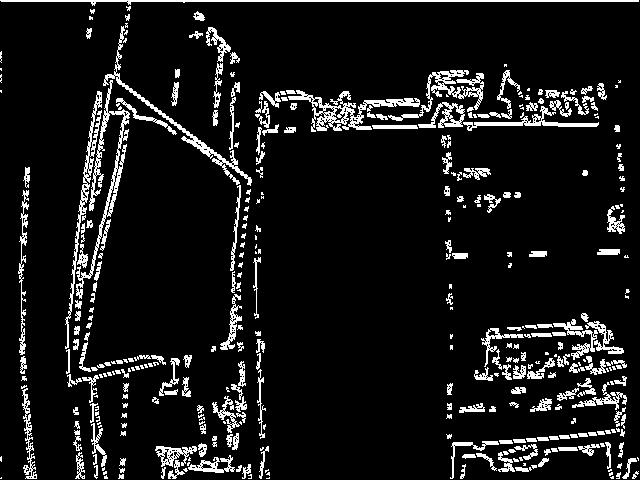
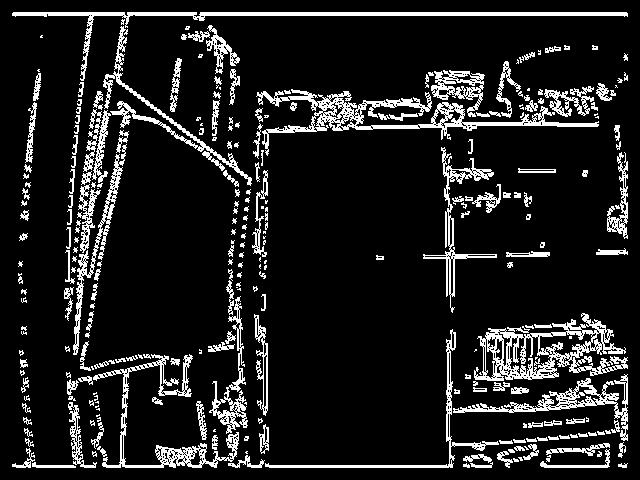
grayscale and binarization

diff --git a/main.py b/main.py
@@ -1,53 +1,17 @@
 import cv2
 import imutils as imutils
 import numpy as np
-from math import sqrt
 from numpy import uint8
 from skimage import img_as_ubyte
 from skimage.io import imread, imsave
 from skimage.color import rgb2gray
 from skimage.filters import threshold_sauvola
 from skimage.transform import probabilistic_hough_line
-from skimage import feature
-import time
 from skimage.draw import line
 from skimage.util import compare_images
-
+import suauvol
 from canny_detector import detect_edges
 from morphology import dilate, erode
-
-
-def integral_image(image, height, width):
-    I = np.zeros((height, width))
-    II = np.zeros((height, width))
-    for h in range(0, height):
-        sum = 0
-        sumSqr = 0
-        for w in range(0, width):
-            sum += image[h][w]
-            sumSqr += image[h][w] * image[h][w]
-            if h == 0:
-                I[h][w] = sum
-                II[h][w] = sumSqr
-            else:
-                I[h][w] = I[h - 1][w] + sum
-                II[h][w] = II[h - 1][w] + sumSqr
-    return I, II
-
-
-def sauvola(image, I, II, height, width, k, r, R):
-    bw = np.zeros((height, width))
-    s = (2 * r + 1) * (2 * r + 1)
-    for h in range(0, height):
-        for w in range(0, width):
-            if r + 1 <= h < height - r - 1 and r + 1 <= w < width - r - 1:
-                sum = I[h + r][w + r] + I[h - r - 1][w - r - 1] - I[h - r - 1][w + r] - \
-                      I[h + r][w - r - 1]
-                sumSqr = II[h + r][w + r] + II[h - r - 1][w - r - 1] - II[h - r - 1][w + r] - \
-                         II[h + r][w - r - 1]
-                avg = sum / s
-                bw[h][w] = 0 if image[h][w] < avg * (1 + k * (sqrt(sumSqr / s - avg * avg) / R - 1)) else 255
-    return bw
 
 
 def binarization(img):
@@ -107,13 +71,22 @@ width = left.shape[1]
 # at least 5% of the image needs to be covered
 thresh = height * width * 0.05 * 0.05
 
-left_bin = binarization(left)
-right_bin = binarization(right)
+# convert image to grayscale
+left_gray = suauvol.rgb_to_gray(left)
+right_gray = suauvol.rgb_to_gray(right)
 
+# binarization
+left_bin = suauvol.binarization(left_gray, 0.2, 13, 128)
+right_bin = suauvol.binarization(right_gray, 0.2, 13, 128)
+imsave("out/left_bin.jpg", left_bin)
+imsave("out/right_bin.jpg", right_bin)
+
+# edge detection
 left_edges = edge_detection(left_bin)
 right_edges = edge_detection(right_bin)
 imsave("out/left_edges.jpg", left_edges)
 imsave("out/right_edges.jpg", right_edges)
+
 left_dilate = dilate(left_edges)
 right_dilate = dilate(right_edges)
 imsave("out/left_dilate.jpg", left_dilate)
@@ -127,7 +100,7 @@ right_lines = line_detection(right_erode)
 imsave("out/left_lines.jpg", left_lines)
 imsave("out/right_lines.jpg", right_lines)
 # diff = compare_images(left_edges, right_edges, method='diff')
-diff = compare_images(left_lines, right_lines, method='diff')
+diff = np.abs(left_lines - right_lines)
 
 rectangles = cv2.findContours(img_as_ubyte(diff), cv2.RETR_LIST, cv2.CHAIN_APPROX_SIMPLE)
 rectangles = imutils.grab_contours(rectangles)

diff --git a/suauvol.py b/suauvol.py
@@ -1,0 +1,46 @@
+import math
+
+import numpy as np
+
+
+def rgb_to_gray(img):
+    coeffs = np.array([0.2125, 0.7154, 0.0721])
+    return img @ coeffs
+
+
+def integral_image(image, height, width):
+    i = np.zeros((height, width))
+    ii = np.zeros((height, width))
+    for h in range(0, height):
+        sum_i = 0
+        sum_sqr = 0
+        for w in range(0, width):
+            sum_i += image[h][w]
+            sum_sqr += image[h][w] * image[h][w]
+            if h == 0:
+                i[h][w] = sum_i
+                ii[h][w] = sum_sqr
+            else:
+                i[h][w] = i[h - 1][w] + sum_i
+                ii[h][w] = ii[h - 1][w] + sum_sqr
+    return i, ii
+
+
+def sauvola(image, I, II, height, width, k, r, R):
+    bw = np.zeros((height, width))
+    s = (2 * r + 1) * (2 * r + 1)
+    for h in range(0, height):
+        for w in range(0, width):
+            if r + 1 <= h < height - r - 1 and r + 1 <= w < width - r - 1:
+                sum = I[h + r][w + r] + I[h - r - 1][w - r - 1] - I[h - r - 1][w + r] - \
+                      I[h + r][w - r - 1]
+                sumSqr = II[h + r][w + r] + II[h - r - 1][w - r - 1] - II[h - r - 1][w + r] - \
+                         II[h + r][w - r - 1]
+                avg = sum / s
+                bw[h][w] = 0 if image[h][w] < avg * (1 + k * (math.sqrt(abs(sumSqr / s - avg * avg)) / R - 1)) else 255
+    return bw
+
+
+def binarization(image, k, r, R):
+    I, II = integral_image(image, image.shape[0], image.shape[1])
+    return sauvola(image, I, II, image.shape[0], image.shape[1], k, r, R)
